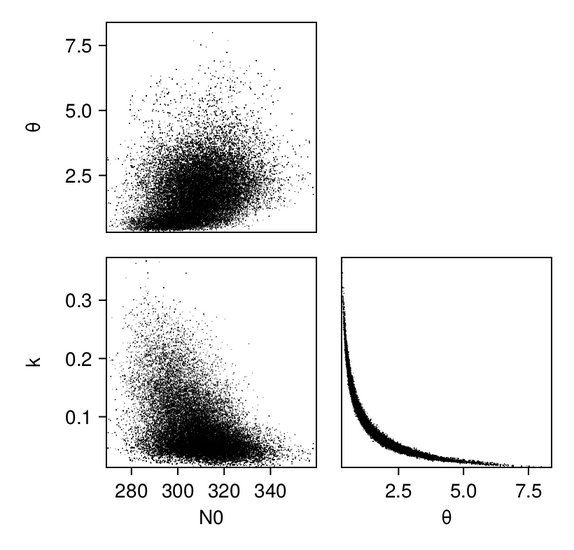
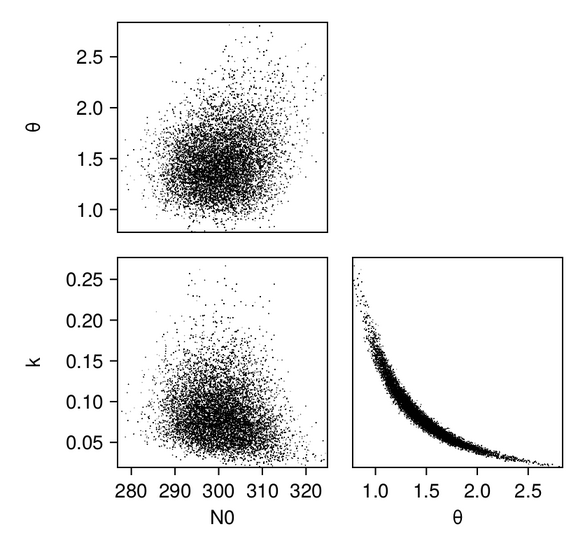
Make emulation use fewer training points

diff --git a/docs/src/examples/Cloudy_example.md b/docs/src/examples/Cloudy_example.md
@@ -369,14 +369,16 @@ mlt = VectorRandomFeatureInterface(
 decorrelate = false
 standardize_outputs = false
 ```
-We construct the emulator using all input-output pairs obtained in the
-calibration stage. For the `gp-gpjl` and `rf-scalar` cases, we want the output
+We construct the emulator using the input-output pairs obtained in the
+calibration stage (note that we're not using all available input-output
+pairs---using all of them may not give the best results, especially if the EKI
+parameter converges rapidly and then "stays in the same place" during the remaining iterations). For the `gp-gpjl` and `rf-scalar` cases, we want the output
 data to be decorrelated with information from Γy, but for the vector RF case
 decorrelation is not required.
 
 ```
 input_output_pairs = get_training_points(ekiobj,
-                                          length(get_u(ekiobj))-1)
+                                          length(get_u(ekiobj))-2)
 
 # Use the medians of the outputs as standardizing factors
 norm_factors = get_standardizing_factors(
